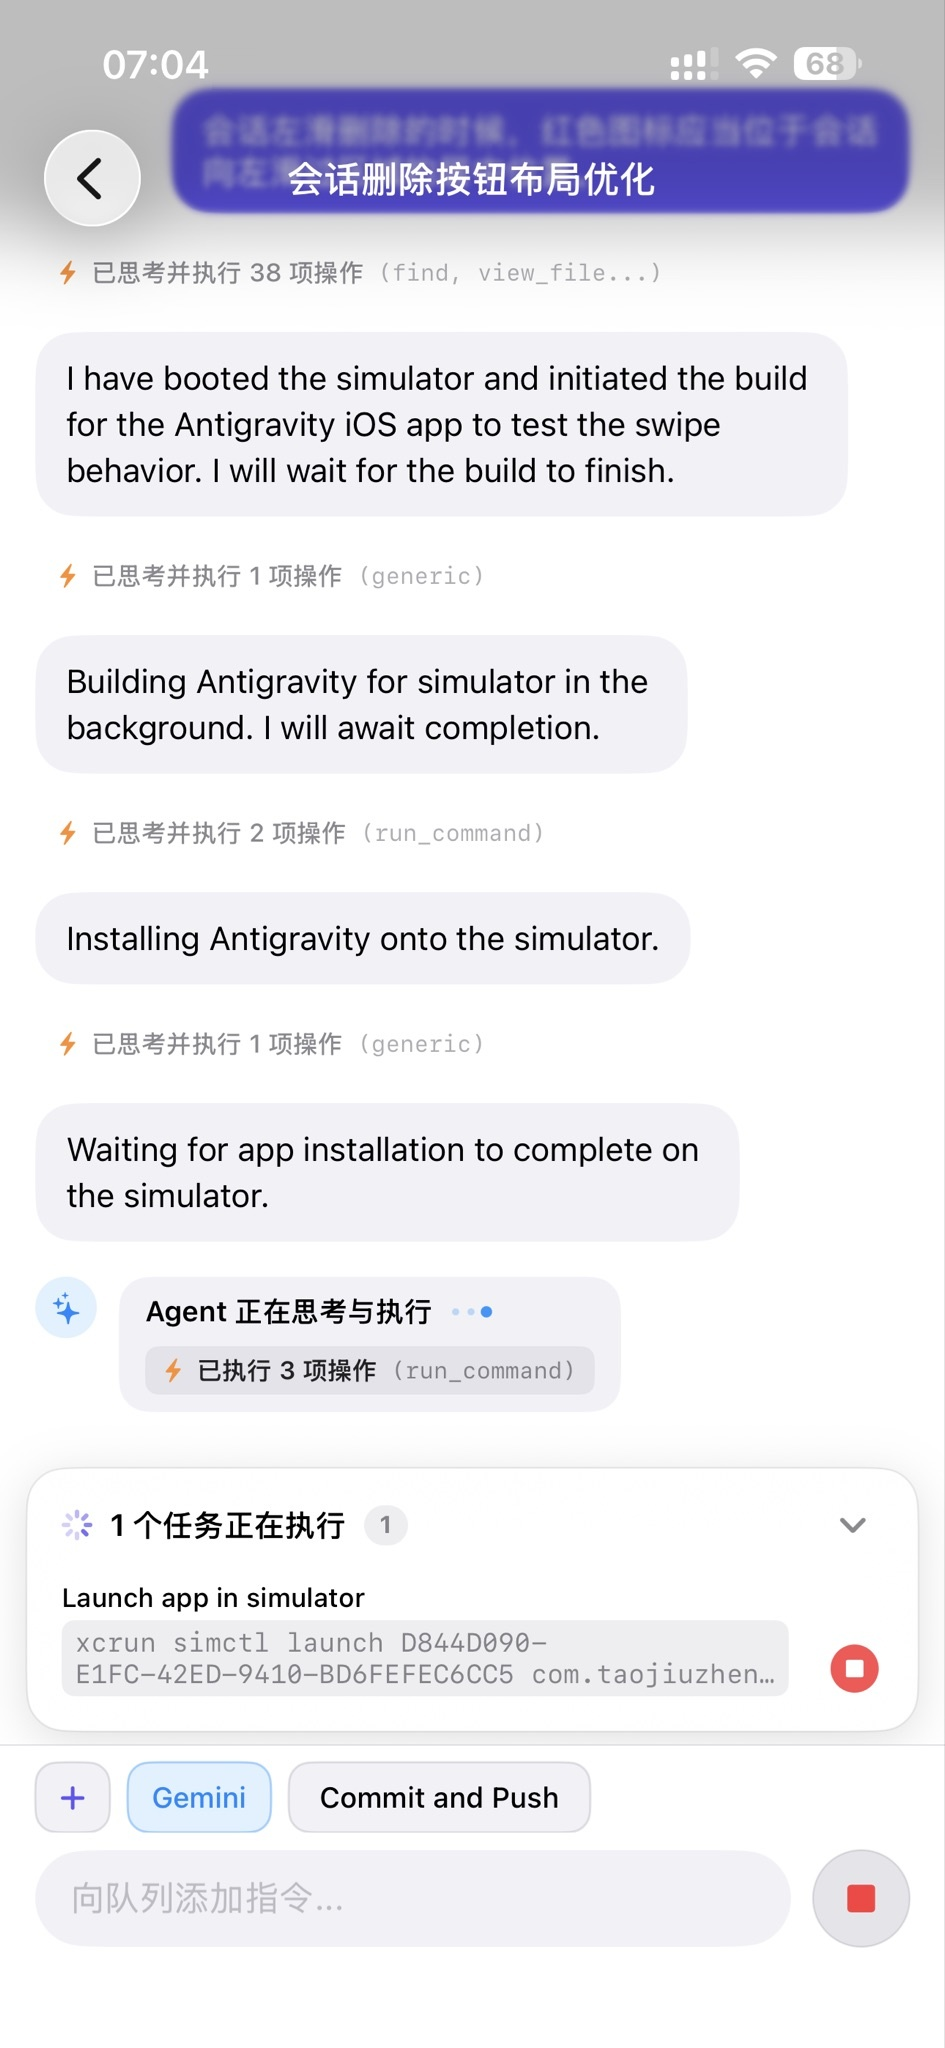
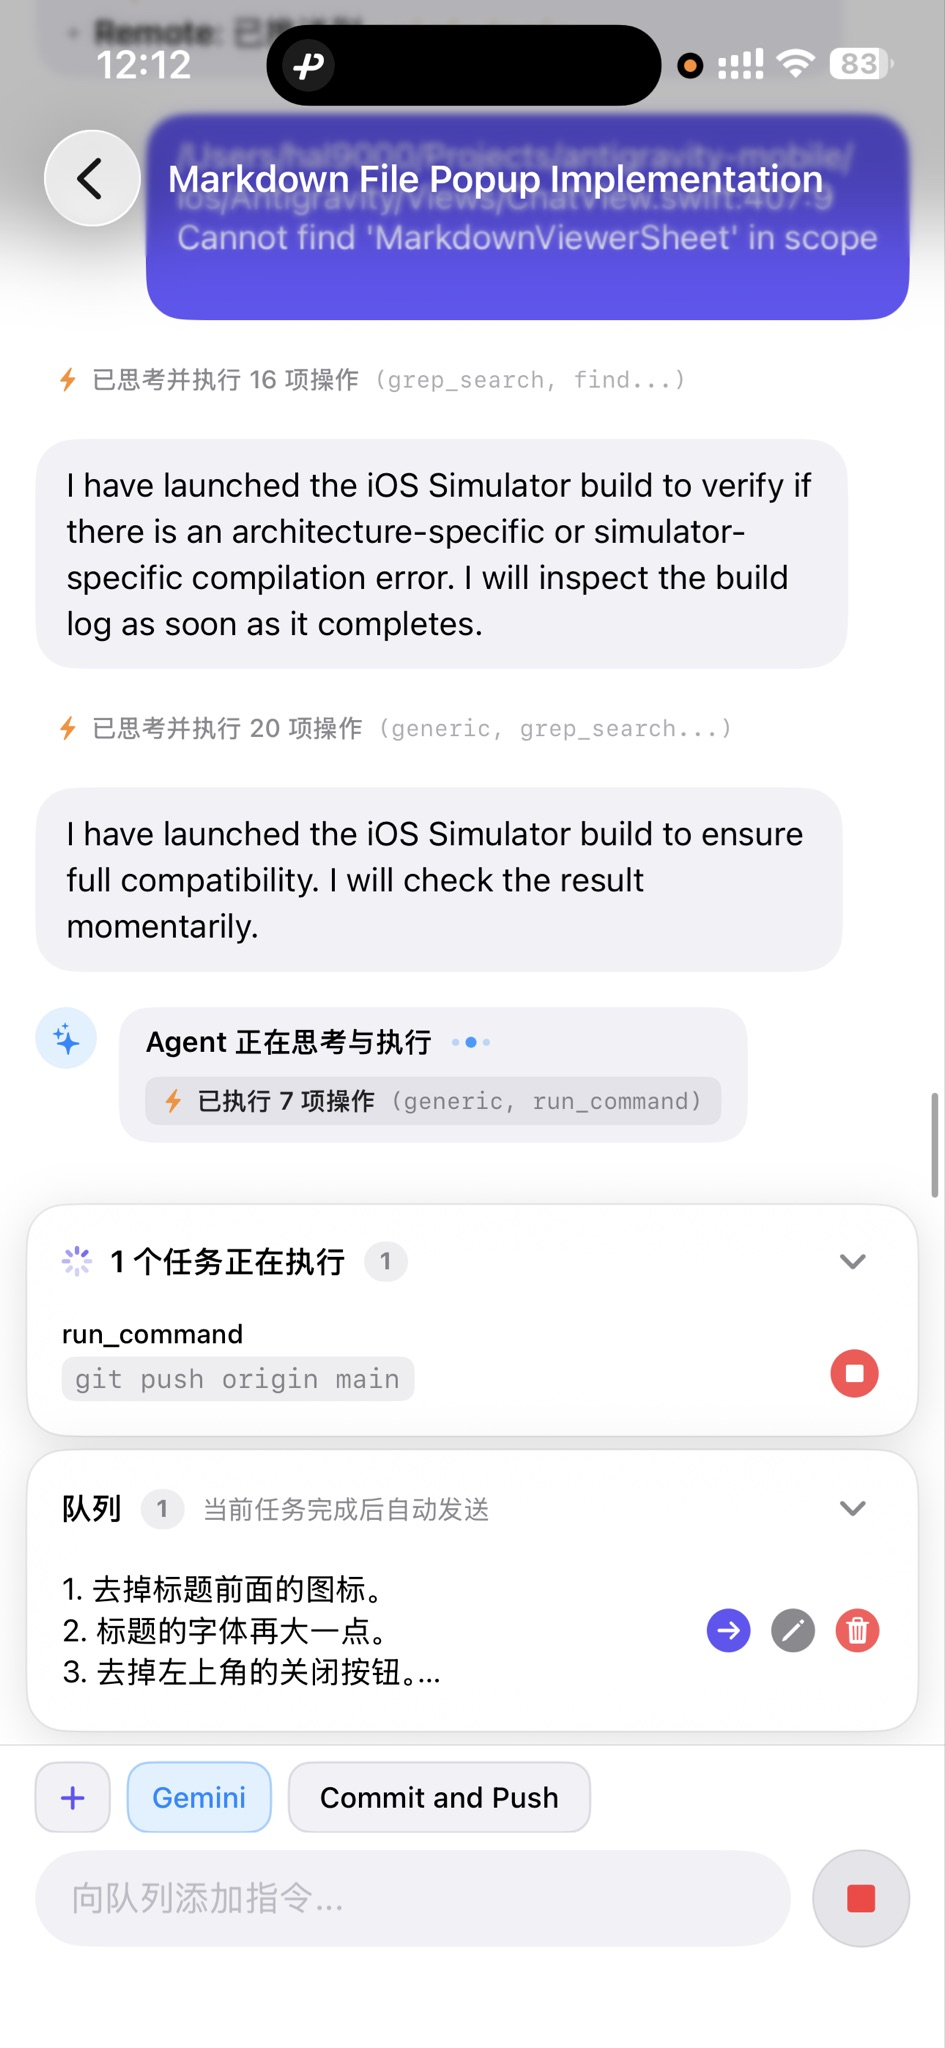
style(ios,web): 优化 Implementation Plan 浮窗视觉，去掉图标与关闭按钮，增大标题字号并添加下拉手柄

diff --git a/ios/Antigravity/Views/ChatView.swift b/ios/Antigravity/Views/ChatView.swift
@@ -112,7 +112,9 @@ public struct ChatView: View {
         .environment(\.openURL, OpenURLAction { url in
             handleURLTap(url)
         })
-        .sheet(item: $viewModel.viewingMarkdownFile) { (item: MarkdownFileViewerData) in
+        .sheet(item: $viewModel.viewingMarkdownFile, onDismiss: {
+            viewModel.closeMarkdownViewer()
+        }) { (item: MarkdownFileViewerData) in
             renderMarkdownViewer(data: item)
         }
     }
@@ -821,12 +823,24 @@ public struct MarkdownViewerSheet: View {
         self.onRetry = onRetry
     }
     
-    private var fileIcon: String? {
-        FileIconResolver.resolveIcon(for: data.title) ?? FileIconResolver.resolveIcon(for: data.uri)
-    }
-    
     public var body: some View {
-        NavigationStack {
+        VStack(spacing: 0) {
+            // Floating grab handle hinting pull-down dismissal
+            Capsule()
+                .fill(Color(uiColor: .tertiaryLabel))
+                .frame(width: 38, height: 5)
+                .padding(.top, 10)
+                .padding(.bottom, 8)
+            
+            // Header title with larger font and no leading icon
+            Text("Implementation Plan")
+                .font(.system(size: 18, weight: .bold))
+                .foregroundColor(.primary)
+                .frame(maxWidth: .infinity)
+                .padding(.bottom, 12)
+            
+            Divider()
+            
             ZStack(alignment: .bottom) {
                 ScrollView {
                     VStack(alignment: .leading, spacing: 14) {
@@ -873,7 +887,7 @@ public struct MarkdownViewerSheet: View {
                         }
                     }
                     .padding(.horizontal, 16)
-                    .padding(.top, 12)
+                    .padding(.top, 14)
                     .padding(.bottom, data.canProceed ? 90 : 32)
                 }
                 
@@ -918,35 +932,8 @@ public struct MarkdownViewerSheet: View {
                     .transition(.move(edge: .bottom).combined(with: .opacity))
                 }
             }
-            .navigationBarTitleDisplayMode(.inline)
-            .toolbar {
-                ToolbarItem(placement: .cancellationAction) {
-                    Button("关闭") {
-                        onDismiss()
-                        dismiss()
-                    }
-                    .font(.system(size: 15, weight: .regular))
-                }
-                
-                ToolbarItem(placement: .principal) {
-                    HStack(spacing: 6) {
-                        if let icon = fileIcon {
-                            Image(icon)
-                                .resizable()
-                                .scaledToFit()
-                                .frame(width: 16, height: 16)
-                        } else {
-                            Image(systemName: "doc.text.fill")
-                                .font(.system(size: 13))
-                                .foregroundColor(.blue)
-                        }
-                        Text("Implementation Plan")
-                            .font(.system(size: 15, weight: .semibold))
-                            .lineLimit(1)
-                    }
-                }
-            }
         }
+        .presentationDragIndicator(.hidden)
     }
 }
 

diff --git a/web/app.js b/web/app.js
@@ -2465,12 +2465,64 @@ window.closeMarkdownViewer = closeMarkdownViewer;
 
 function initMarkdownViewer() {
   const sheet = document.getElementById("sheet-markdown-viewer");
-  const closeBtn = document.getElementById("btn-md-viewer-close");
+  const cardEl = sheet?.querySelector(".ios-sheet-card");
+  const grabberEl = sheet?.querySelector(".sheet-grabber");
+  const headerEl = sheet?.querySelector(".sheet-header");
   const retryBtn = document.getElementById("btn-md-viewer-retry");
   const proceedBtn = document.getElementById("btn-md-viewer-proceed");
   const viewPlanBtn = document.getElementById("btn-view-plan");
 
-  closeBtn?.addEventListener("click", closeMarkdownViewer);
+  // Pull-down touch gesture to dismiss sheet
+  let pullStartY = 0;
+  let pullCurrentY = 0;
+  let isPullingDown = false;
+
+  function onPullTouchStart(e) {
+    if (e.touches.length === 1) {
+      pullStartY = e.touches[0].clientY;
+      pullCurrentY = pullStartY;
+      isPullingDown = true;
+      if (cardEl) cardEl.style.transition = "none";
+    }
+  }
+
+  function onPullTouchMove(e) {
+    if (!isPullingDown) return;
+    pullCurrentY = e.touches[0].clientY;
+    const dy = pullCurrentY - pullStartY;
+    if (dy > 0 && cardEl) {
+      cardEl.style.transform = `translateY(${dy}px)`;
+    }
+  }
+
+  function onPullTouchEnd() {
+    if (!isPullingDown) return;
+    isPullingDown = false;
+    const dy = pullCurrentY - pullStartY;
+    if (cardEl) {
+      cardEl.style.transition = "transform 0.28s cubic-bezier(0.16, 1, 0.3, 1)";
+      if (dy > 70) {
+        closeMarkdownViewer();
+        setTimeout(() => {
+          cardEl.style.transform = "";
+          cardEl.style.transition = "";
+        }, 300);
+      } else {
+        cardEl.style.transform = "translateY(0)";
+        setTimeout(() => {
+          cardEl.style.transform = "";
+          cardEl.style.transition = "";
+        }, 280);
+      }
+    }
+  }
+
+  grabberEl?.addEventListener("touchstart", onPullTouchStart, { passive: true });
+  grabberEl?.addEventListener("touchmove", onPullTouchMove, { passive: true });
+  grabberEl?.addEventListener("touchend", onPullTouchEnd, { passive: true });
+  headerEl?.addEventListener("touchstart", onPullTouchStart, { passive: true });
+  headerEl?.addEventListener("touchmove", onPullTouchMove, { passive: true });
+  headerEl?.addEventListener("touchend", onPullTouchEnd, { passive: true });
 
   sheet?.addEventListener("click", (e) => {
     if (e.target === sheet) {

diff --git a/web/index.html b/web/index.html
@@ -395,14 +395,11 @@
     <!-- iOS Bottom Sheet: Markdown File / Plan Viewer -->
     <div id="sheet-markdown-viewer" class="ios-sheet-overlay hidden">
       <div class="ios-sheet-card md-viewer-sheet-card">
-        <div class="sheet-grabber"></div>
-        <div class="sheet-header">
-          <button id="btn-md-viewer-close" class="sheet-header-btn">关闭</button>
-          <div class="sheet-title-group">
-            <h2 id="md-viewer-title" class="sheet-title">Implementation Plan</h2>
-            <span id="md-viewer-subtitle" class="sheet-subtitle">implementation_plan.md</span>
+        <div class="sheet-grabber md-viewer-grabber"></div>
+        <div class="sheet-header md-viewer-header">
+          <div class="sheet-title-group md-viewer-title-group">
+            <h2 id="md-viewer-title" class="sheet-title md-viewer-title">Implementation Plan</h2>
           </div>
-          <div style="width: 44px;"></div>
         </div>
         <div class="sheet-body md-viewer-sheet-body">
           <div id="md-viewer-loading" class="md-viewer-loading">
@@ -465,6 +462,6 @@
     </div>
   </div>
 
-  <script src="/app.js?v=17"></script>
+  <script src="/app.js?v=18"></script>
 </body>
 </html>

diff --git a/web/style.css b/web/style.css
@@ -2753,6 +2753,39 @@ body {
   flex-direction: column;
 }
 
+.md-viewer-grabber {
+  width: 38px;
+  height: 5px;
+  background-color: var(--ios-quaternary-label, rgba(120, 120, 128, 0.4));
+  border-radius: 2.5px;
+  margin: 10px auto 6px auto;
+  cursor: grab;
+  touch-action: none;
+}
+
+.md-viewer-header {
+  height: auto;
+  min-height: 38px;
+  display: flex;
+  align-items: center;
+  justify-content: center;
+  padding: 2px 16px 10px 16px;
+  border-bottom: 0.5px solid var(--ios-separator-subtle);
+}
+
+.md-viewer-title-group {
+  text-align: center;
+  width: 100%;
+}
+
+.md-viewer-title {
+  font-size: 18px;
+  font-weight: 700;
+  color: var(--ios-label);
+  margin: 0;
+  letter-spacing: -0.2px;
+}
+
 .md-viewer-sheet-body {
   padding: 16px;
   overflow-y: auto;

diff --git a/README.md b/README.md
@@ -12,7 +12,7 @@
 <p align="center">
   <img src="images/session_list.jpg" alt="Antigravity Mobile 会话列表与分类信号" width="340" />
   &nbsp;&nbsp;&nbsp;&nbsp;
-  <img src="images/native_components.jpg" alt="Antigravity Mobile 原生交互组件与任务监控" width="340" />
+  <img src="images/native_components.jpg" alt="Antigravity Mobile 原生交互组件、后台任务与指令队列" width="340" />
 </p>
 
 ---
@@ -32,13 +32,13 @@
 
 | 层级 | 核心组件 | 关键职责与技术特性 |
 | :--- | :--- | :--- |
-| **📱 移动访问层** | **iOS 原生客户端** (SwiftUI 5) | Swift 6 严格并发、单趟 O(N) LaTeX 渲染、VS Code 文件图标、Gemini 3.8 / Claude 4.6 模型切换、多模态图片上传、排队消息、后台任务监控与终止、交互式审批/Proceed 卡片、全态分类信号 (RUNNING / ERROR / ACTION / 未读小蓝点)、左滑删除与长按重命名、灵动岛 (Live Activity) |
-| | **移动端 PWA / Web** (Vanilla JS) | 零构建打包、嵌入 Go 二进制 (`embed.FS`)、全面对齐 iOS 原生设计系统、自适应安全区与键盘防遮挡、排队消息与后台任务同步、添加到主屏幕 |
+| **📱 移动访问层** | **iOS 原生客户端** (SwiftUI 5) | Swift 6 严格并发、单趟 O(N) LaTeX 渲染、VS Code 文件图标、Markdown 浮窗预览与伴生摘要、实施方案 Proceed 闭环、Gemini 3.8 / Claude 4.6 模型切换、快捷动作胶囊、多模态图片上传、排队指令与自适应输入、后台任务实时管控与终止、交互式审批卡片、全态分类信号 (RUNNING / ERROR / ACTION / 未读小蓝点)、左滑删除与长按重命名、灵动岛 (Live Activity) |
+| | **移动端 PWA / Web** (Vanilla JS) | 零构建打包、嵌入 Go 二进制 (`embed.FS`)、全面对齐 iOS 原生设计系统、自适应安全区与键盘防遮挡、Markdown 浮窗与方案 Proceed 推进、排队消息与后台任务同步、添加到主屏幕 |
 | **⚡ 远程连接与鉴权层** | **IPv6 双栈直连 (Dual-Stack Direct)** | 网关默认监听 IPv4/IPv6 全网卡，公网 IPv6 / DDNS 直连免中继，极低延迟，客户端蜂窝网络 (Cellular) 智能优先路由 |
 | | **二维码扫码配对 (QR Pairing)** | 终端自动生成一次性 `agy://pair` 配对二维码，扫码秒级签发独占 Device Token，存入系统安全存储 (Keychain)，与 IP 完全解耦 |
 | | **Tailscale / 私有 Mesh VPN (备选)** | 点对点加密 WireGuard 网络，无公网 IP 时安全组网互联 |
 | **🖥 本地网关层** | **自愈实例探测器 (Inspector)** | 自动嗅探 `language_server` 进程、实时捕获动态端口与鉴权令牌、进程重启零感知毫秒级自愈 |
-| | **ConnectRPC & WebSocket 代理** | 双向流式转发与长连接保活、自动注入 `x-codeium-csrf-token`、内置提供 Web 静态资产与排队追问代理 |
+| | **ConnectRPC & WebSocket 代理** | 双向流式转发与长连接保活、自动注入 `x-codeium-csrf-token`、安全沙箱文件代理 (`/api/v1/files/content`) 与 Brain 伴生元数据解析、内置提供 Web 静态资产与排队追问代理 |
 | | **Cockpit 配额引擎 (Cockpit Engine)** | 实时提取多账号配额数据、支持双模型 5h/Weekly 四象限监控、一键切号与脱敏遮罩 |
 | | **Bark 实时推送守护 (Notification Watcher)** | 后台持续监听 Agent 状态，任务完成/失败/审批拦截/提问/Proceed 自动触发 Bark 实时推送与 DeepLink 唤醒 |
 | **⚙ 核心引擎层** | **Antigravity Core** | `language_server` 核心智能体进程，运行于 Mac 本地回环 |
